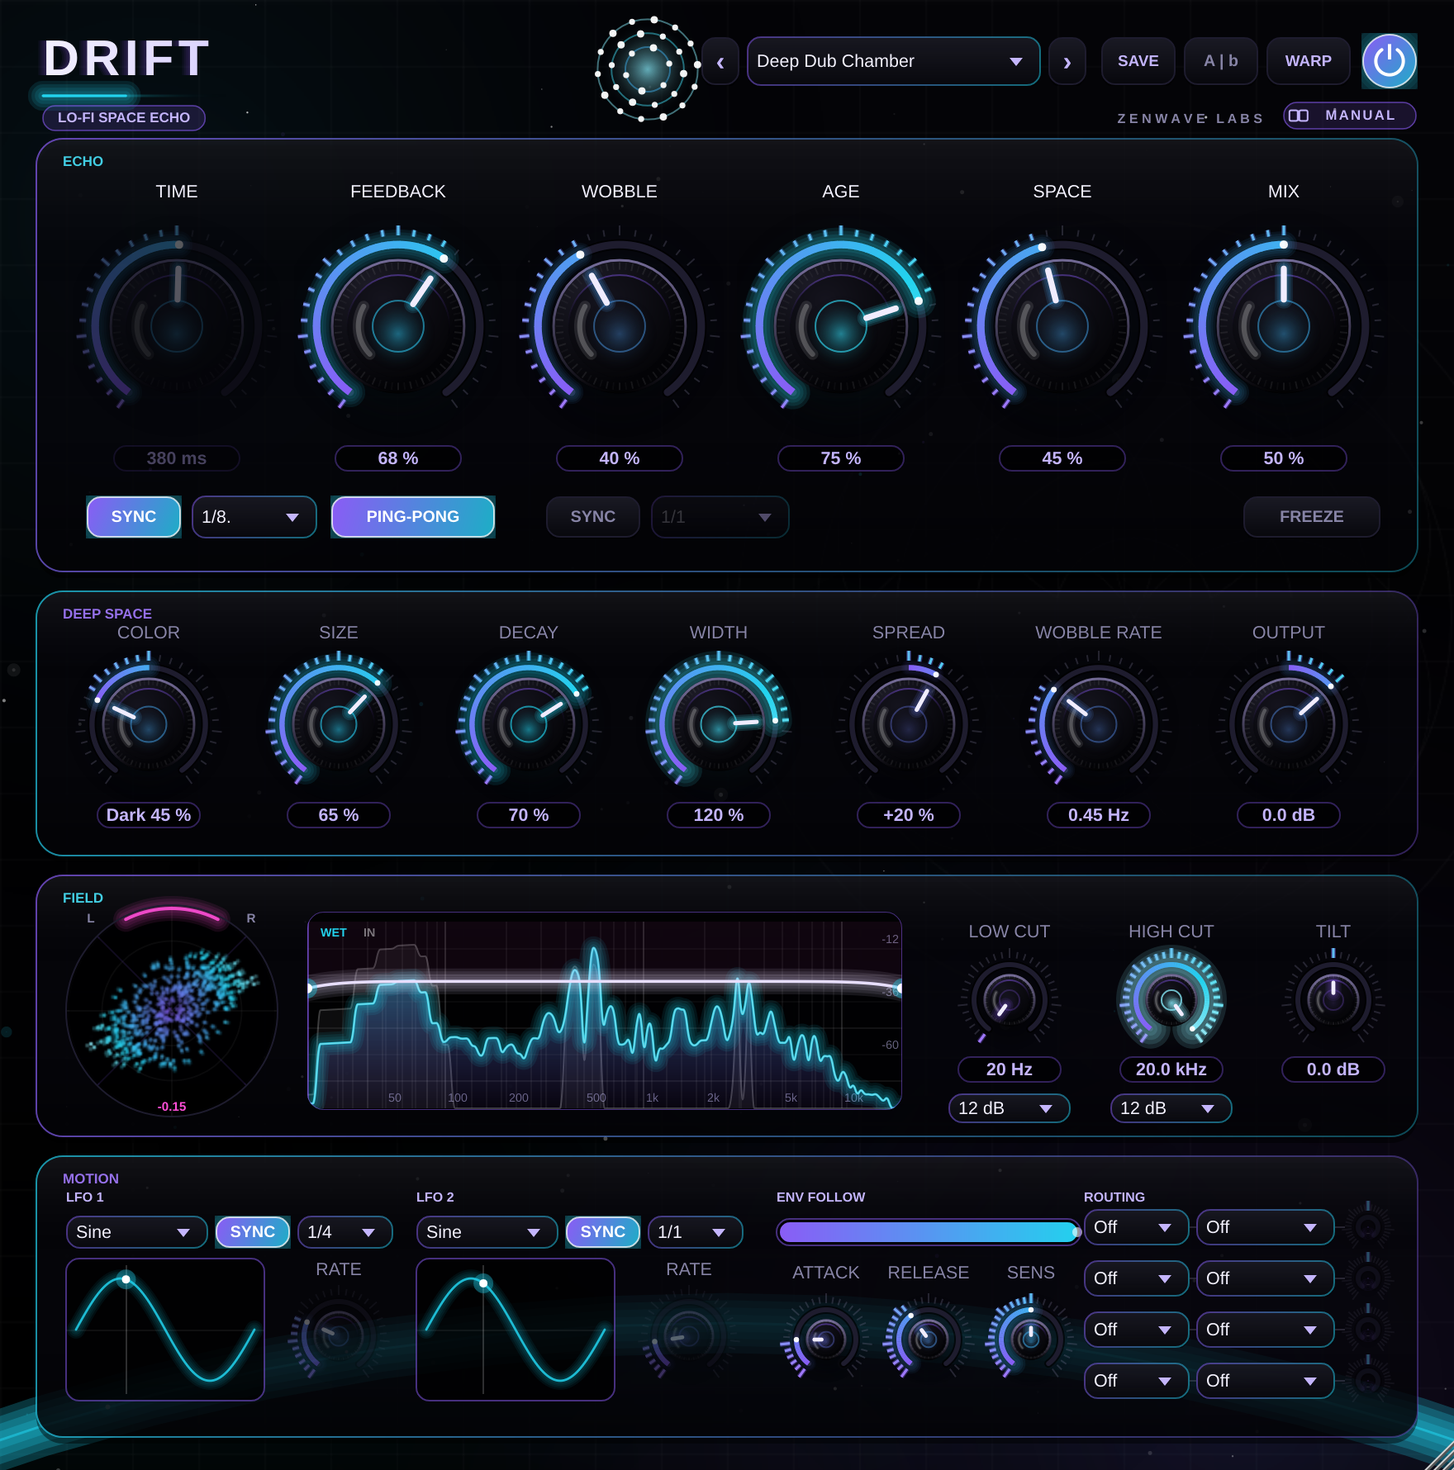
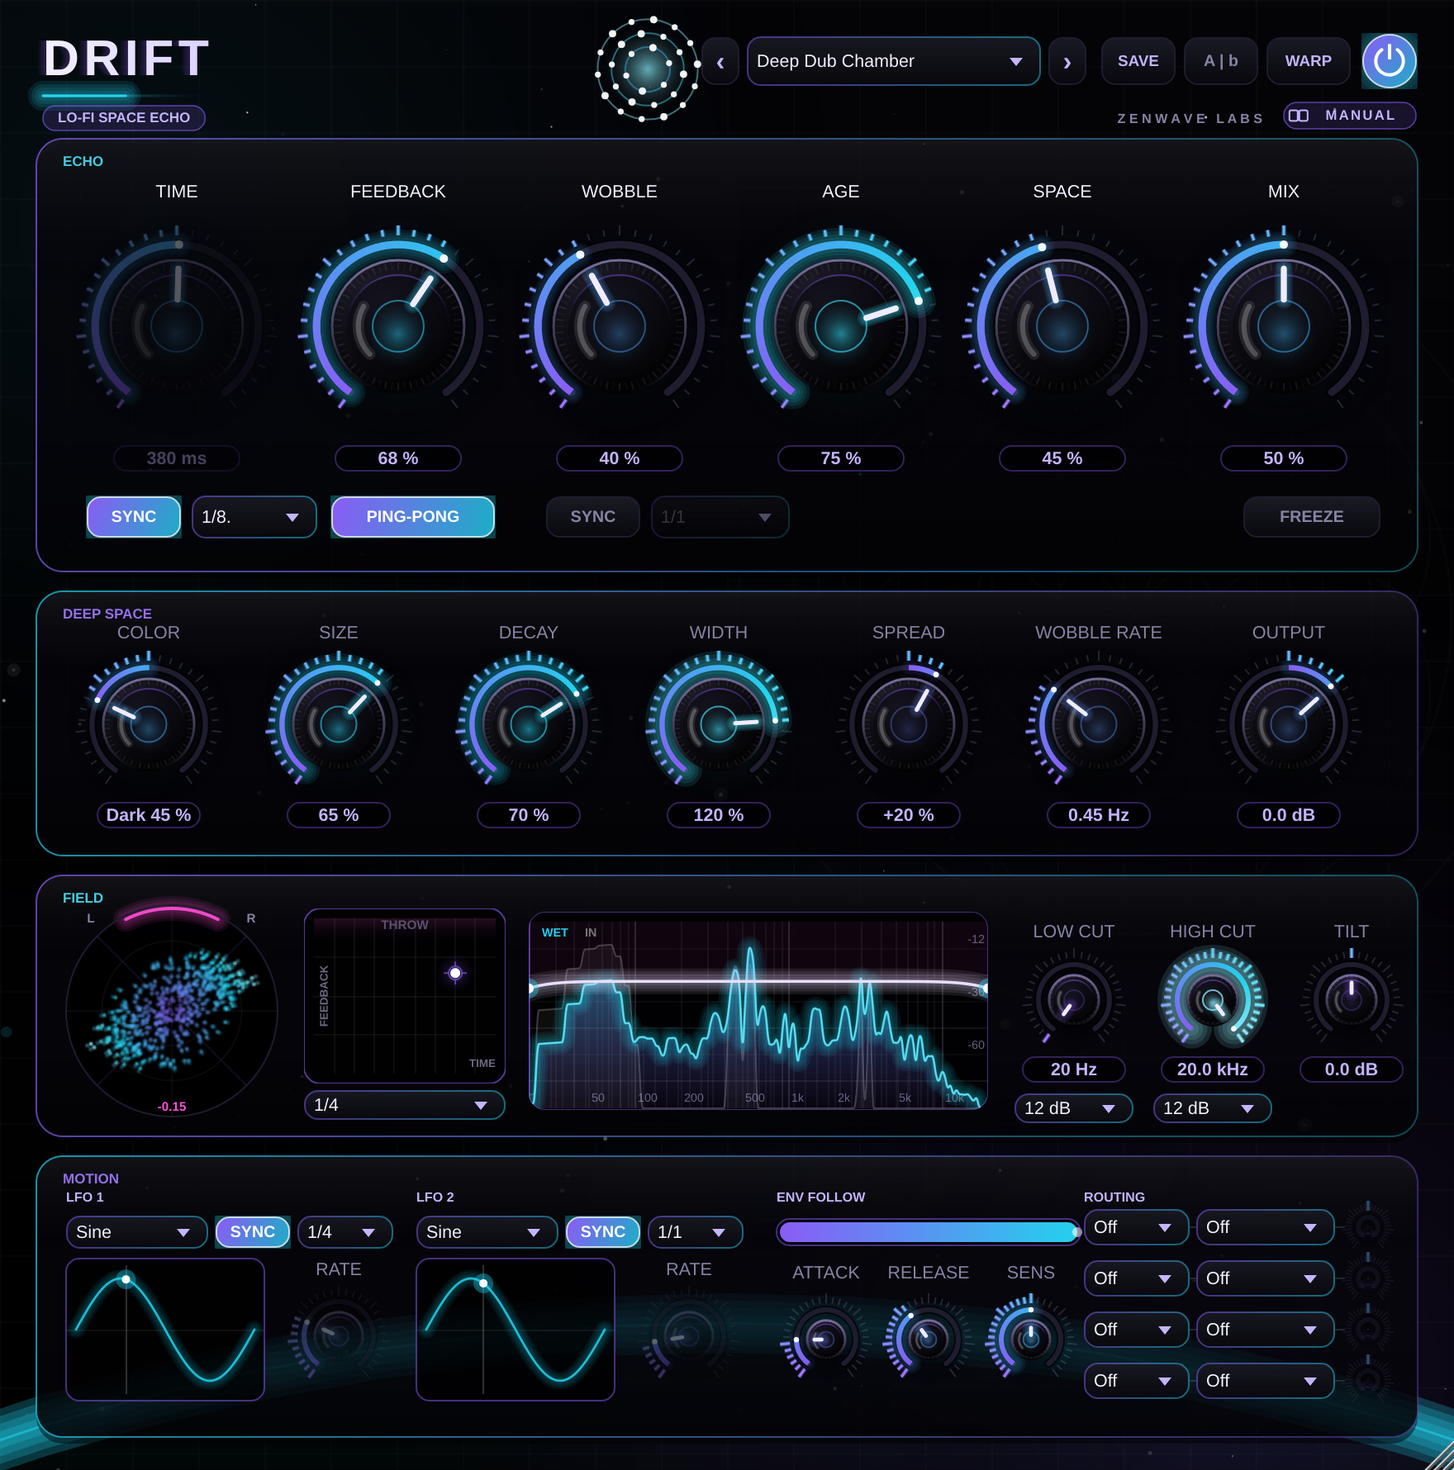
Drift: Perform pad (throw surface with synced glide-home)
- XY pad in the Field: drag = time (snapped to divisions when synced) x feedback,
  release = eased glide back to the knob settings over a synced division (1/16 - 2 bars)
- Processor-owned PadEngine: sample-accurate ramps, log-domain time interpolation
- Automatable / MIDI-mappable: Pad X, Pad Y, Pad Hold, Pad Glide
- Comet trail + home marker; manual + tooltip entries
- QA: throw stress (3 throws into self-oscillation, glide home) PASS

Claude-Session: https://claude.ai/code/session_017QkTniK1NEuAZXzt6zeDH9

Changed region(s): [[0.1875, 0.618, 0.9688, 0.7725]]

diff --git a/libs/zenwave_ui/include/zenwave_ui/PerformPad.h b/libs/zenwave_ui/include/zenwave_ui/PerformPad.h
@@ -1,0 +1,173 @@
+#pragma once
+// Perform pad: an XY "throw" surface. Drag = momentary override of two parameters
+// (e.g. time × feedback); release = the sound glides home over a synced division.
+// Drives three automatable parameters (padx, pady, padhold) so hosts can record it and
+// controllers can be mapped to it. The processor owns the glide (sample-accurate); the
+// pad only draws the effective position it reports back.
+
+#include "ZenWaveUI.h"
+#include "ProcessorHelpers.h"
+#include <deque>
+
+namespace zwui {
+
+struct PadIDs
+{
+    static constexpr auto x = "padx", y = "pady", hold = "padhold", glide = "padglide";
+    static juce::StringArray glideNames() { return { "1/16", "1/8", "1/4", "1/2", "1 bar", "2 bars" }; }
+    static double glideBeats(int i) { static const double b[] = { 0.25, 0.5, 1.0, 2.0, 4.0, 8.0 }; return b[juce::jlimit(0, 5, i)]; }
+};
+
+inline void addPadParams(std::vector<std::unique_ptr<juce::RangedAudioParameter>>& params)
+{
+    using P = juce::AudioParameterFloat; using Rng = juce::NormalisableRange<float>;
+    params.push_back(std::make_unique<P>(juce::ParameterID{ PadIDs::x, 1 }, "Pad X", Rng{ 0.0f, 1.0f, 0.0001f }, 0.5f));
+    params.push_back(std::make_unique<P>(juce::ParameterID{ PadIDs::y, 1 }, "Pad Y", Rng{ 0.0f, 1.0f, 0.0001f }, 0.5f));
+    params.push_back(std::make_unique<juce::AudioParameterBool>(juce::ParameterID{ PadIDs::hold, 1 }, "Pad Hold", false));
+    params.push_back(std::make_unique<juce::AudioParameterChoice>(juce::ParameterID{ PadIDs::glide, 1 }, "Pad Glide", PadIDs::glideNames(), 2));
+}
+
+// Processor side: ramps the override amount in (15 ms) on hold, out over the glide division on release.
+class PadEngine
+{
+public:
+    void attach(juce::AudioProcessorValueTreeState& apvts)
+    {
+        px = apvts.getRawParameterValue(PadIDs::x); py = apvts.getRawParameterValue(PadIDs::y);
+        ph = apvts.getRawParameterValue(PadIDs::hold); pg = apvts.getRawParameterValue(PadIDs::glide);
+    }
+    void prepare(double sampleRate) { sr = sampleRate; amt = 0.0f; }
+
+    // Advance by n samples; returns the override amount 0..1 (eased)
+    float process(int n, double bpm)
+    {
+        const bool hold = ph->load() > 0.5f;
+        if (hold) { amt = std::min(1.0f, amt + float(n) / float(sr * 0.015)); gliding = false; }
+        else
+        {
+            const double glideSec = 60.0 / juce::jlimit(20.0, 300.0, bpm) * PadIDs::glideBeats(int(pg->load()));
+            if (amt > 0.0f) { amt = std::max(0.0f, amt - float(n) / float(sr * glideSec)); gliding = amt > 0.0f; }
+        }
+        const float e = amt * amt * (3.0f - 2.0f * amt);    // smoothstep ease
+        eased.store(e);
+        return e;
+    }
+    float x() const { return px->load(); }
+    float y() const { return py->load(); }
+    bool  held() const { return ph->load() > 0.5f; }
+    std::atomic<float> eased { 0.0f };
+    std::atomic<float> effX { 0.5f }, effY { 0.5f };   // effective position (processor writes, pad draws)
+    bool gliding = false;
+private:
+    std::atomic<float>* px{}, * py{}, * ph{}, * pg{};
+    double sr = 48000.0; float amt = 0.0f;
+};
+
+class PerformPad : public juce::Component, public juce::SettableTooltipClient
+{
+public:
+    PerformPad(juce::AudioProcessorValueTreeState& s, PadEngine& e, LookAndFeel& l, juce::String xName, juce::String yName)
+        : apvts(s), eng(e), lnf(l), xLabel(std::move(xName)), yLabel(std::move(yName))
+    {
+        pX = apvts.getParameter(PadIDs::x); pY = apvts.getParameter(PadIDs::y); pH = apvts.getParameter(PadIDs::hold);
+        setMouseCursor(juce::MouseCursor::CrosshairCursor);
+        setTooltip("Perform pad: drag to throw (" + xLabel + " across, " + yLabel + " up). Let go and it glides home over the GLIDE division. Automatable and MIDI-mappable (Pad X / Pad Y / Pad Hold).");
+    }
+
+    // Home position (where the knobs are) so the pad can show where "home" is
+    void setHome(float hx, float hy) { homeX = hx; homeY = hy; }
+    // Optional snap columns (synced divisions)
+    void setColumns(int n) { columns = n; }
+
+    void mouseDown(const juce::MouseEvent& e) override
+    {
+        for (auto* p : { pX, pY, pH }) p->beginChangeGesture();
+        pH->setValueNotifyingHost(1.0f);
+        mouseDrag(e);
+    }
+    void mouseDrag(const juce::MouseEvent& e) override
+    {
+        const auto r = getLocalBounds().toFloat().reduced(6.0f);
+        pX->setValueNotifyingHost(juce::jlimit(0.0f, 1.0f, (e.position.x - r.getX()) / r.getWidth()));
+        pY->setValueNotifyingHost(juce::jlimit(0.0f, 1.0f, 1.0f - (e.position.y - r.getY()) / r.getHeight()));
+    }
+    void mouseUp(const juce::MouseEvent&) override
+    {
+        pH->setValueNotifyingHost(0.0f);
+        for (auto* p : { pX, pY, pH }) p->endChangeGesture();
+    }
+
+    void tick()
+    {
+        trail.push_front({ eng.effX.load(), eng.effY.load() });
+        if (trail.size() > 18) trail.pop_back();
+        repaint();
+    }
+
+    void paint(juce::Graphics& g) override
+    {
+        auto r = getLocalBounds().toFloat();
+        const auto in = r.reduced(6.0f);
+        const float e = eng.eased.load();
+        g.setColour(Palette::bg.withAlpha(0.7f)); g.fillRoundedRectangle(r, 10.0f);
+        // grid
+        g.setColour(juce::Colours::white.withAlpha(0.05f));
+        const int cols = columns > 0 ? columns : 4;
+        for (int i = 1; i < cols; ++i) g.drawVerticalLine(int(in.getX() + in.getWidth() * i / cols), in.getY(), in.getBottom());
+        for (int i = 1; i < 4; ++i) g.drawHorizontalLine(int(in.getY() + in.getHeight() * i / 4), in.getX(), in.getRight());
+        // danger zone (top = self-oscillation)
+        g.setGradientFill(juce::ColourGradient(Palette::magenta.withAlpha(0.14f), in.getX(), in.getY(), juce::Colours::transparentBlack, in.getX(), in.getY() + in.getHeight() * 0.18f, false));
+        g.fillRect(in.withHeight(in.getHeight() * 0.18f));
+        // labels
+        g.setFont(juce::Font(juce::FontOptions(7.5f, juce::Font::bold)));
+        g.setColour(Palette::dim.withAlpha(0.8f));
+        g.drawText(xLabel, in.withTop(in.getBottom() - 10.0f).translated(0, -1), juce::Justification::centredRight);
+        {
+            juce::Graphics::ScopedSaveState ss(g);
+            g.addTransform(juce::AffineTransform::rotation(-juce::MathConstants<float>::halfPi, in.getX() + 6.0f, in.getCentreY()));
+            g.drawText(yLabel, juce::Rectangle<float>(in.getX() + 6.0f - 40.0f, in.getCentreY() - 6.0f, 80.0f, 12.0f), juce::Justification::centred);
+        }
+        auto toPt = [&](float x, float y) { return juce::Point<float>(in.getX() + x * in.getWidth(), in.getY() + (1.0f - y) * in.getHeight()); };
+        // home marker
+        {
+            const auto h = toPt(homeX, homeY);
+            g.setColour(lnf.accent.withAlpha(0.7f));
+            g.drawEllipse(h.x - 4.0f, h.y - 4.0f, 8.0f, 8.0f, 1.0f);
+            g.drawLine(h.x - 7.0f, h.y, h.x - 4.0f, h.y, 1.0f); g.drawLine(h.x + 4.0f, h.y, h.x + 7.0f, h.y, 1.0f);
+            g.drawLine(h.x, h.y - 7.0f, h.x, h.y - 4.0f, 1.0f); g.drawLine(h.x, h.y + 4.0f, h.x, h.y + 7.0f, 1.0f);
+        }
+        // comet trail of the effective position
+        for (size_t i = 1; i < trail.size(); ++i)
+        {
+            const float a = (1.0f - float(i) / float(trail.size())) * (0.15f + 0.6f * e);
+            const auto p0 = toPt(trail[i - 1].first, trail[i - 1].second), p1 = toPt(trail[i].first, trail[i].second);
+            g.setColour(lnf.accent2.withAlpha(a)); g.drawLine({ p0, p1 }, 2.0f + 2.0f * (1.0f - float(i) / float(trail.size())));
+        }
+        // live dot
+        if (! trail.empty())
+        {
+            const auto p = toPt(trail.front().first, trail.front().second);
+            const auto col = aurora(e, lnf.accent, lnf.accent2);
+            g.setGradientFill(juce::ColourGradient(col.withAlpha(0.35f + 0.4f * e), p.x, p.y, juce::Colours::transparentBlack, p.x + 14.0f + 10.0f * e, p.y, true));
+            g.fillEllipse(p.x - 24.0f, p.y - 24.0f, 48.0f, 48.0f);
+            g.setColour(juce::Colours::white); g.fillEllipse(p.x - 3.0f, p.y - 3.0f, 6.0f, 6.0f);
+        }
+        g.setColour((eng.held() ? lnf.accent2 : lnf.accent).withAlpha(0.6f + 0.4f * e));
+        g.drawRoundedRectangle(r, 10.0f, 1.0f + e);
+        if (e < 0.01f && ! eng.held())
+        {
+            g.setColour(Palette::dim.withAlpha(0.6f));
+            g.setFont(juce::Font(juce::FontOptions(8.5f, juce::Font::bold)));
+            g.drawText("THROW", r.withTrimmedTop(4.0f).withHeight(12.0f), juce::Justification::centred);
+        }
+    }
+
+private:
+    juce::AudioProcessorValueTreeState& apvts; PadEngine& eng; LookAndFeel& lnf;
+    juce::RangedAudioParameter* pX{}, * pY{}, * pH{};
+    juce::String xLabel, yLabel;
+    float homeX = 0.5f, homeY = 0.5f; int columns = 0;
+    std::deque<std::pair<float, float>> trail;
+};
+
+} // namespace zwui

diff --git a/plugins/drift/src/PluginProcessor.cpp b/plugins/drift/src/PluginProcessor.cpp
@@ -36,6 +36,8 @@ DriftAudioProcessor::DriftAudioProcessor()
     pTilt = apvts.getRawParameterValue(ParamIDs::tilt);
     pColor = apvts.getRawParameterValue(ParamIDs::color);
     mod.attach(apvts, driftModTargets());
+    pad.attach(apvts);
+    bank.setAlwaysLocked({ zwui::PadIDs::x, zwui::PadIDs::y, zwui::PadIDs::hold, zwui::PadIDs::glide });
     bank.setAlwaysLocked({ ParamIDs::power, ParamIDs::output, ParamIDs::mix, ParamIDs::freeze });
     bank.setSafeRange(ParamIDs::feedback, 0.0f, 0.82f);
     bank.setSafeRange(ParamIDs::lowCut, 20.0f, 400.0f);
@@ -106,6 +108,7 @@ APVTS::ParameterLayout DriftAudioProcessor::createLayout()
     params.push_back(std::make_unique<P>(juce::ParameterID{ ParamIDs::color, 1 }, "Color", Rng{ -1.0f, 1.0f, 0.001f }, 0.0f,
         juce::AudioParameterFloatAttributes().withStringFromValueFunction([](float v, int) { return v < -0.01f ? "Dark " + juce::String(juce::roundToInt(-v * 100)) + " %" : v > 0.01f ? "Thin " + juce::String(juce::roundToInt(v * 100)) + " %" : juce::String("Off"); })));
     zwui::addModParams(params, driftModTargets());
+    zwui::addPadParams(params);
     return { params.begin(), params.end() };
 }
 
@@ -114,6 +117,7 @@ void DriftAudioProcessor::prepareToPlay(double sampleRate, int samplesPerBlock)
     currentSampleRate = sampleRate;
     engine.prepare(sampleRate, samplesPerBlock);
     mod.prepare(sampleRate);
+    pad.prepare(sampleRate);
     wetScratch.setSize(2, samplesPerBlock);
     monoScratch.setSize(1, samplesPerBlock);
     power.prepare(sampleRate, samplesPerBlock, 2);
@@ -134,12 +138,33 @@ float DriftAudioProcessor::syncedTimeMs() const
     return float(zwui::divisionSeconds(int(pDivision->load()), hostBpm) * 1000.0);
 }
 
+float DriftAudioProcessor::padTimeMs(float x) const
+{
+    if (padSynced()) return float(zwui::divisionSeconds(juce::roundToInt(x * 9.0f), hostBpm) * 1000.0);   // 1/32 .. 1/2, snapped
+    return 40.0f * std::pow(1500.0f / 40.0f, x);
+}
+float DriftAudioProcessor::padXForTime(float ms) const
+{
+    if (padSynced()) return juce::jlimit(0.0f, 1.0f, float(juce::jlimit(0, 9, int(pDivision->load()))) / 9.0f);
+    return juce::jlimit(0.0f, 1.0f, std::log(ms / 40.0f) / std::log(1500.0f / 40.0f));
+}
+
 void DriftAudioProcessor::updateEngineParams()
 {
     zw::DriftParams p;
     const auto M = [this](int t) { return mod.value(t); };
-    p.timeMs     = pSync->load() > 0.5f ? syncedTimeMs() * std::pow(2.0f, mod.offsetNorm(ModT::Time) * 2.0f) : M(ModT::Time);   // synced: ±2 octaves
-    p.feedback   = M(ModT::Feedback);
+    float timeMs = pSync->load() > 0.5f ? syncedTimeMs() * std::pow(2.0f, mod.offsetNorm(ModT::Time) * 2.0f) : M(ModT::Time);   // synced: +/-2 octaves
+    float fb     = M(ModT::Feedback);
+    // Perform pad override, eased in/out by PadEngine (time interpolates in the log domain)
+    const float pa = pad.eased.load();
+    if (pa > 0.0001f)
+    {
+        timeMs = std::exp(juce::jmap(pa, std::log(timeMs), std::log(padTimeMs(pad.x()))));
+        fb     = juce::jmap(pa, fb, padFeedback(pad.y()));
+    }
+    pad.effX.store(padXForTime(timeMs)); pad.effY.store(padYForFeedback(fb));
+    p.timeMs     = timeMs;
+    p.feedback   = fb;
     p.wowFlutter = M(ModT::Wobble);
     p.age        = M(ModT::Age);
     p.space      = M(ModT::Space);
@@ -186,6 +211,7 @@ void DriftAudioProcessor::processBlock(juce::AudioBuffer<float>& buffer, juce::M
     {
         const int len = juce::jmin(kSub, n - start);
         mod.process(buffer.getReadPointer(0, start), numOut >= 2 ? buffer.getReadPointer(1, start) : nullptr, len, hostBpm, ppq, playing);
+        pad.process(len, hostBpm);
         updateEngineParams();
         if (wetScratch.getNumSamples() >= n) engine.setWetTap(wetScratch.getWritePointer(0, start), wetScratch.getWritePointer(1, start));
         if (numOut >= 2) engine.process(buffer.getWritePointer(0, start), buffer.getWritePointer(1, start), len);

diff --git a/plugins/drift/src/PluginEditor.cpp b/plugins/drift/src/PluginEditor.cpp
@@ -42,6 +42,10 @@ DriftAudioProcessorEditor::DriftAudioProcessorEditor(DriftAudioProcessor& p)
 
     addAndMakeVisible(presetBar);
     addAndMakeVisible(modPanel);
+    addAndMakeVisible(pad);
+    addAndMakeVisible(glideBox); glideBox.addItemList(zwui::PadIDs::glideNames(), 1);
+    glideBox.setTooltip("Glide: how long the pad takes to return home after you let go (synced)");
+    glideAttach = std::make_unique<juce::AudioProcessorValueTreeState::ComboBoxAttachment>(processor.apvts, zwui::PadIDs::glide, glideBox);
     allKnobs = { &time, &feedback, &wobble, &age, &space, &mix, &size, &decay, &width, &spread, &output, &wobbleRate, &color, &lowCut, &highCut, &tilt };
     installLocks();
 
@@ -115,6 +119,9 @@ void DriftAudioProcessorEditor::timerCallback()
     scope.update(processor.stereo);
     presetBar.sync();
     modPanel.tick();
+    pad.setHome(processor.padXForTime(float(time.slider.getValue())), processor.padYForFeedback(float(feedback.slider.getValue())));
+    pad.setColumns(syncButton.getToggleState() ? 9 : 0);
+    pad.tick();
     syncModRings();
     const bool sync = syncButton.getToggleState();
     divisionBox.setEnabled(sync); divisionBox.setAlpha(sync ? 1.0f : 0.4f);
@@ -142,7 +149,7 @@ void DriftAudioProcessorEditor::paint(juce::Graphics& g)
     scope.draw(g, juce::Rectangle<float>(40 * s, 548 * s, 128 * s, 128 * s), lnf.accent, lnf.accent2, processor.motion.pulse);
     zwui::EqCurve eq { lowCut.slider.getValue() > 0 ? float(lowCut.slider.getValue()) : 20.0f, float(highCut.slider.getValue()),
                        juce::jmax(0, lowSlopeBox.getSelectedId() - 1), juce::jmax(0, highSlopeBox.getSelectedId() - 1), float(tilt.slider.getValue()) };
-    zwui::drawEqField(g, juce::Rectangle<float>(186 * s, 552 * s, 360 * s, 120 * s), analyser, &analyserIn, eq, lnf.accent, lnf.accent2, processor.motion.pulse);
+    zwui::drawEqField(g, juce::Rectangle<float>(320 * s, 552 * s, 278 * s, 120 * s), analyser, &analyserIn, eq, lnf.accent, lnf.accent2, processor.motion.pulse);
     zwui::drawOrbit(g, { 392 * s, 42 * s }, 24 * s, processor.motion, lnf.accent, lnf.accent2);
 }
 
@@ -176,9 +183,11 @@ void DriftAudioProcessorEditor::resized()
     for (auto* k : smalls) { k->layout(x, S(392), S(100), S(110), S(14)); x += S(115); }
 
     // Tone: field display on the left, cuts + tilt on the right
+    pad.setBounds(S(184), S(550), S(122), S(106));
+    glideBox.setBounds(S(184), S(660), S(122), S(18));
     zwui::Knob* tone[] = { &lowCut, &highCut, &tilt };
-    x = S(566);
-    for (auto* k : tone) { k->layout(x, S(572), S(90), S(84), S(12)); x += S(98); }
-    lowSlopeBox.setBounds(S(574), S(662), S(74), S(18));
-    highSlopeBox.setBounds(S(672), S(662), S(74), S(18));
+    x = S(610);
+    for (auto* k : tone) { k->layout(x, S(572), S(80), S(84), S(12)); x += S(84); }
+    lowSlopeBox.setBounds(S(614), S(662), S(72), S(18));
+    highSlopeBox.setBounds(S(698), S(662), S(72), S(18));
 }

diff --git a/tools/qa/qa.cpp b/tools/qa/qa.cpp
@@ -158,6 +158,30 @@ int main()
         for (int i = 1; i <= 4; ++i) set("mod" + juce::String(i) + "src", 0.0f);
     }
 
+    // 6) Perform pad (if present): hardest throw - max time, self-oscillating feedback - then release and glide home
+    {
+        juce::RangedAudioParameter* hold = nullptr;
+        for (auto* pp : proc->getParameters()) if (auto* r = dynamic_cast<juce::RangedAudioParameter*>(pp)) if (r->paramID == "padhold") hold = r;
+        if (hold)
+        {
+            auto set = [&](const juce::String& id, float v) { for (auto* pp : proc->getParameters()) if (auto* r = dynamic_cast<juce::RangedAudioParameter*>(pp)) if (r->paramID == id) r->setValueNotifyingHost(v); };
+            proc->setCurrentProgram(0);
+            Stats total;
+            for (int k = 0; k < 3; ++k)
+            {
+                set("padx", k == 0 ? 1.0f : (k == 1 ? 0.0f : 0.5f)); set("pady", 1.0f); set("padhold", 1.0f);
+                auto a = run(*proc, int(sr * 1.5 / block), t, sr, b, mb, last);
+                set("padhold", 0.0f);
+                auto c = run(*proc, int(sr * 2.5 / block), t, sr, b, mb, last);
+                total.finite &= a.finite && c.finite; total.peak = std::max({ total.peak, a.peak, c.peak }); total.clicks += a.clicks + c.clicks;
+            }
+            QA_CHECK(total.finite, "perform pad produced NaN/Inf");
+            QA_CHECK(total.peak < 4.1f, "perform pad peak %.2f", total.peak);
+            QA_CHECK(total.clicks <= 2, "perform pad throws had %d clicks", total.clicks);
+            std::printf("  pad    3 throws + glide home       peak %5.2f  clicks %d\n", total.peak, total.clicks);
+        }
+    }
+
     std::printf("%s (%d failure%s)\n", failures ? "QA FAILED" : "QA PASSED", failures, failures == 1 ? "" : "s");
     return failures ? 1 : 0;
 }

diff --git a/plugins/drift/src/Manual.h b/plugins/drift/src/Manual.h
@@ -34,7 +34,11 @@ namespace DriftManual
               { "WOBBLE RATE", "Speed of the slow wow (0.05-4 Hz) when wobble sync is off.", "wobblerate" },
               { "OUTPUT", "Output trim, -24 to +12 dB. Use it to match levels when A/B-ing.", "output" } } });
 
-        v.push_back(zwui::fieldSection());
+        {
+            auto f = zwui::fieldSection();
+            f.entries.insert(f.entries.begin(), { "PERFORM PAD", "The throw surface. Drag: across = delay time (snapped to divisions when SYNC is on), up = feedback (the pink zone at the top self-oscillates). Let go and the sound glides back to your knob settings over the GLIDE division - a perfect, repeatable throw every time. Your DAW records it as Pad X / Pad Y / Pad Hold automation, and you can map a controller pad to Pad Hold." });
+            v.push_back(f);
+        }
         v.push_back(zwui::motionSection());
         v.push_back(zwui::presetSection());
         v.push_back({ "RECIPES", "",

diff --git a/plugins/drift/src/PluginProcessor.h b/plugins/drift/src/PluginProcessor.h
@@ -4,6 +4,7 @@
 #include <zenwave_ui/ProcessorHelpers.h>
 #include <zenwave_ui/Modulation.h>
 #include <zenwave_ui/PresetBank.h>
+#include <zenwave_ui/PerformPad.h>
 #include "Presets.h"
 
 namespace ParamIDs
@@ -81,6 +82,13 @@ public:
     zwui::SpectrumTap spectrum, spectrumIn;
     zwui::StereoTap stereo;
     zwui::ModMatrix mod;
+    zwui::PadEngine pad;
+    // Perform-pad mapping (shared with the editor so "home" draws in the right place)
+    float padTimeMs(float x) const;
+    float padXForTime(float ms) const;
+    static float padFeedback(float y) { return y * 1.05f; }
+    static float padYForFeedback(float fb) { return juce::jlimit(0.0f, 1.0f, fb / 1.05f); }
+    bool padSynced() const { return pSync->load() > 0.5f; }
     juce::AudioBuffer<float> wetScratch;   // post-EQ wet signal for the Field analyser
     zwui::PresetBank bank { apvts, "Drift" };
     double currentSampleRate = 48000.0;

diff --git a/plugins/drift/src/PluginEditor.h b/plugins/drift/src/PluginEditor.h
@@ -33,6 +33,9 @@ private:
     zwui::GalaxyScope scope;
     zwui::ModPanel modPanel { processor.apvts, processor.mod, lnf };
     zwui::PresetBar presetBar;
+    zwui::PerformPad pad { processor.apvts, processor.pad, lnf, "TIME", "FEEDBACK" };
+    juce::ComboBox glideBox;
+    std::unique_ptr<juce::AudioProcessorValueTreeState::ComboBoxAttachment> glideAttach;
 
     juce::ToggleButton syncButton { "SYNC" }, pingPongButton { "PING-PONG" }, freezeButton { "FREEZE" },
                        wobbleSyncButton { "SYNC" }, powerButton;
